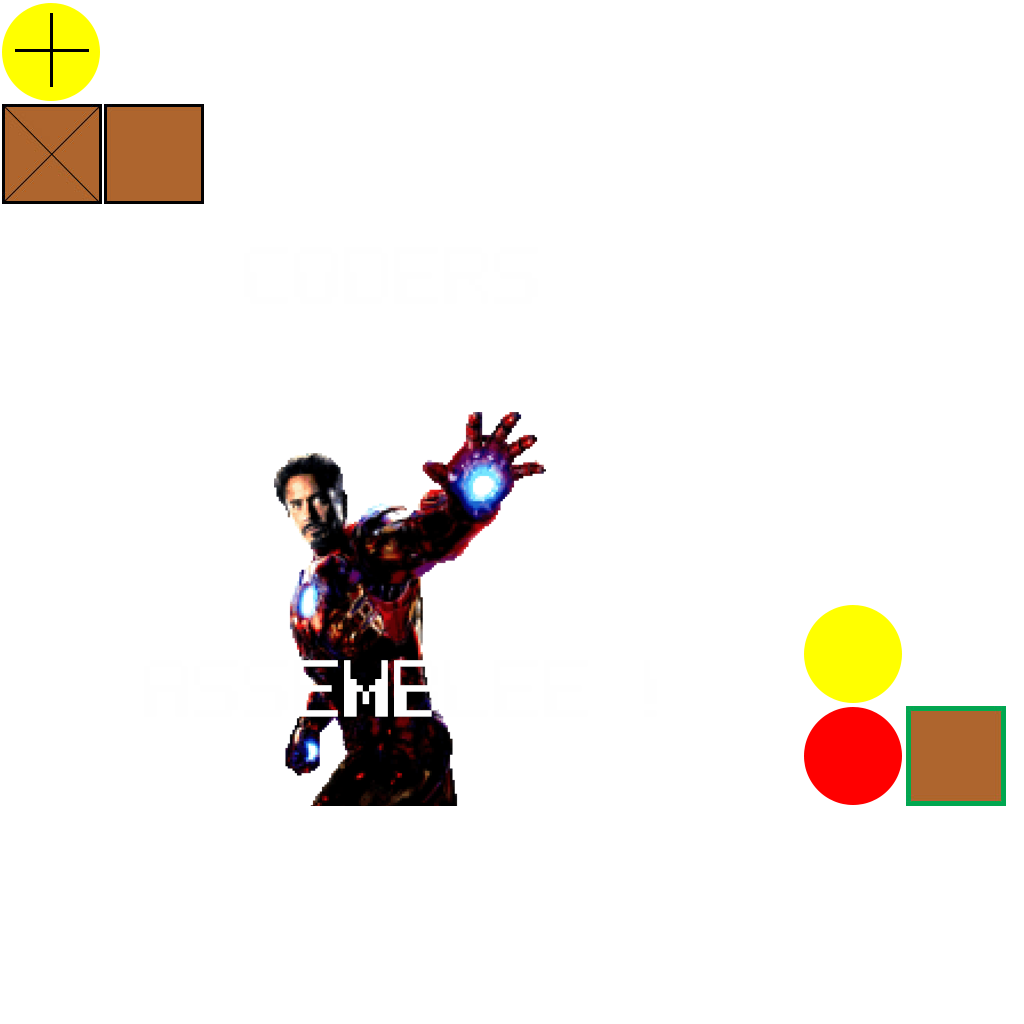
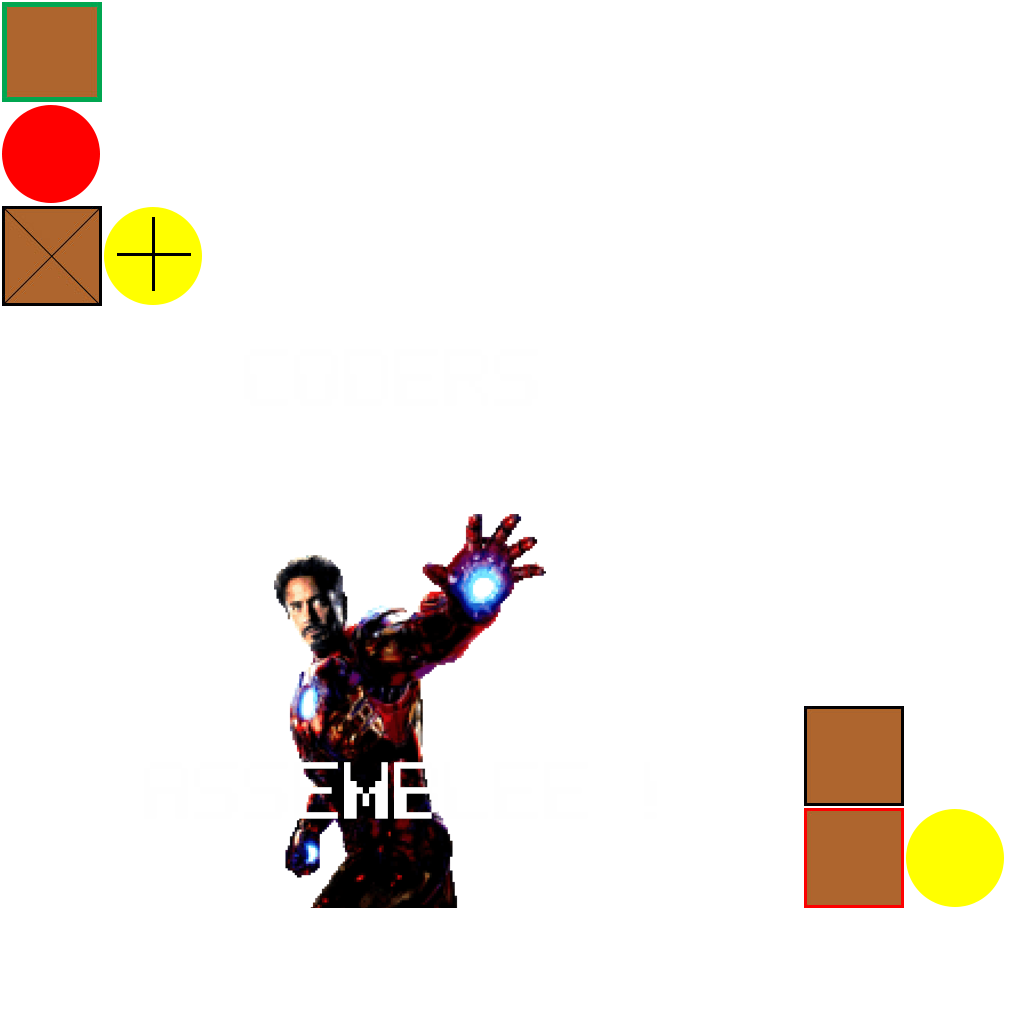
Ajout du sprite pour les cases moscovites et gestion de ce nouveau sprite

Changed region(s): [[0.25, 0.4062, 0.5312, 0.9062], [0.0, 0.0, 0.2188, 0.3125], [0.7812, 0.5938, 1.0, 0.9062]]

diff --git a/GameProject/core/src/s6/prog6/obichouvine/controllers/GameRenderer.java b/GameProject/core/src/s6/prog6/obichouvine/controllers/GameRenderer.java
@@ -15,6 +15,7 @@ public class GameRenderer {
 	private TextureRegion normalBlock;
 	private TextureRegion escapeBlock;
 	private TextureRegion throneBlock;
+	private TextureRegion moscovitBlock;
 
 	private SpriteBatch spriteBatch;
 
@@ -40,6 +41,7 @@ public class GameRenderer {
 		normalBlock = atlas.findRegion("Standard-case");
 		escapeBlock = atlas.findRegion("Escape-case");
 		throneBlock = atlas.findRegion("Throne-case");
+		moscovitBlock = atlas.findRegion("Moscovit-case");
 		moscoPawn = atlas.findRegion("Moscovit");
 		vikingSoldier = atlas.findRegion("Suedois");
 		viKing = atlas.findRegion("Roi");
@@ -58,7 +60,7 @@ public class GameRenderer {
 			else if(block.getState()==Block.BlockState.FORTERESSE)
 				spriteBatch.draw(escapeBlock, block.getPosition().x * ppuX, block.getPosition().y * ppuY, Block.SIZE * ppuX, Block.SIZE * ppuY);
 			else if(block.getState()==Block.BlockState.ROUGE)
-				spriteBatch.draw(normalBlock, block.getPosition().x * ppuX, block.getPosition().y * ppuY, Block.SIZE * ppuX, Block.SIZE * ppuY);
+				spriteBatch.draw(moscovitBlock, block.getPosition().x * ppuX, block.getPosition().y * ppuY, Block.SIZE * ppuX, Block.SIZE * ppuY);
 			else if(block.getState()==Block.BlockState.BLANC)
 				spriteBatch.draw(normalBlock, block.getPosition().x * ppuX, block.getPosition().y * ppuY, Block.SIZE * ppuX, Block.SIZE * ppuY);
 			
